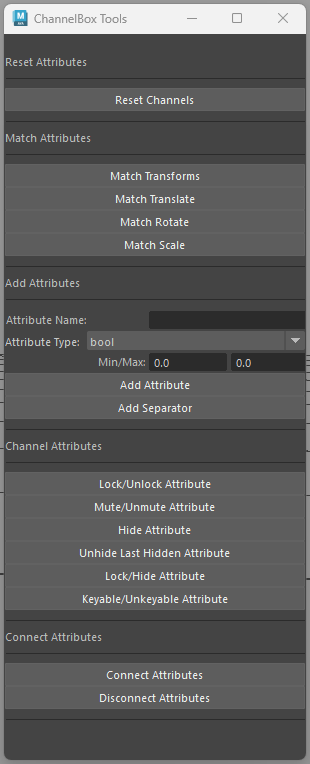
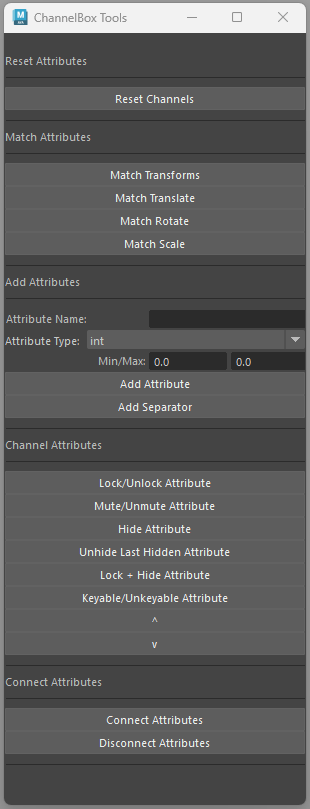
Updated tool image for wiki

Changed region(s): [[0.0, 0.0, 1.0, 0.9332]]

diff --git a/0_app/ui.py b/0_app/ui.py
@@ -76,8 +76,10 @@ def draw_ui():
 	cmds.button(label='Mute/Unmute Attribute')
 	cmds.button(label='Hide Attribute')
 	cmds.button(label='Unhide Last Hidden Attribute')
-	cmds.button(label='Lock/Hide Attribute')
+	cmds.button(label='Lock + Hide Attribute')
 	cmds.button(label='Keyable/Unkeyable Attribute')
+	cmds.button(label='^')
+	cmds.button(label='v')
 	cmds.separator(height=20, style='singleDash')
 
 

diff --git a/readme.md b/readme.md
@@ -2,7 +2,13 @@
 The **Modify Channelbox Attributes** app provides the user with a collection of simple tools that help to speed up the artist's workflow. 
 These tools provide the ability to set, add, connect or change the state of an object's channelbox attributes. 
 
-## Environment
--**OS**: Windows | Linux
--**Software**: Maya 2023+
+[tool ui](https://github.com/g33cheese/modify-channelbox-attributes/blob/main/img/modify_cb_attrs_tool.png)
 
+## Environment
+- [x] **OS**: Windows | Linux
+- [x] **Software**: Maya 2023+
+
+## Tool Actions
+- [x] **Reset Attributes** 
+> Reset Channels - Resets all attributes to their default value for selected object(s). If specific channelbox attributes are selected/highlighted only those attributes will be reset to their default value. 
+(https://github.com/g33cheese/modify-channelbox-attributes/blob/main/img/tool_reset_attributes.gif)
